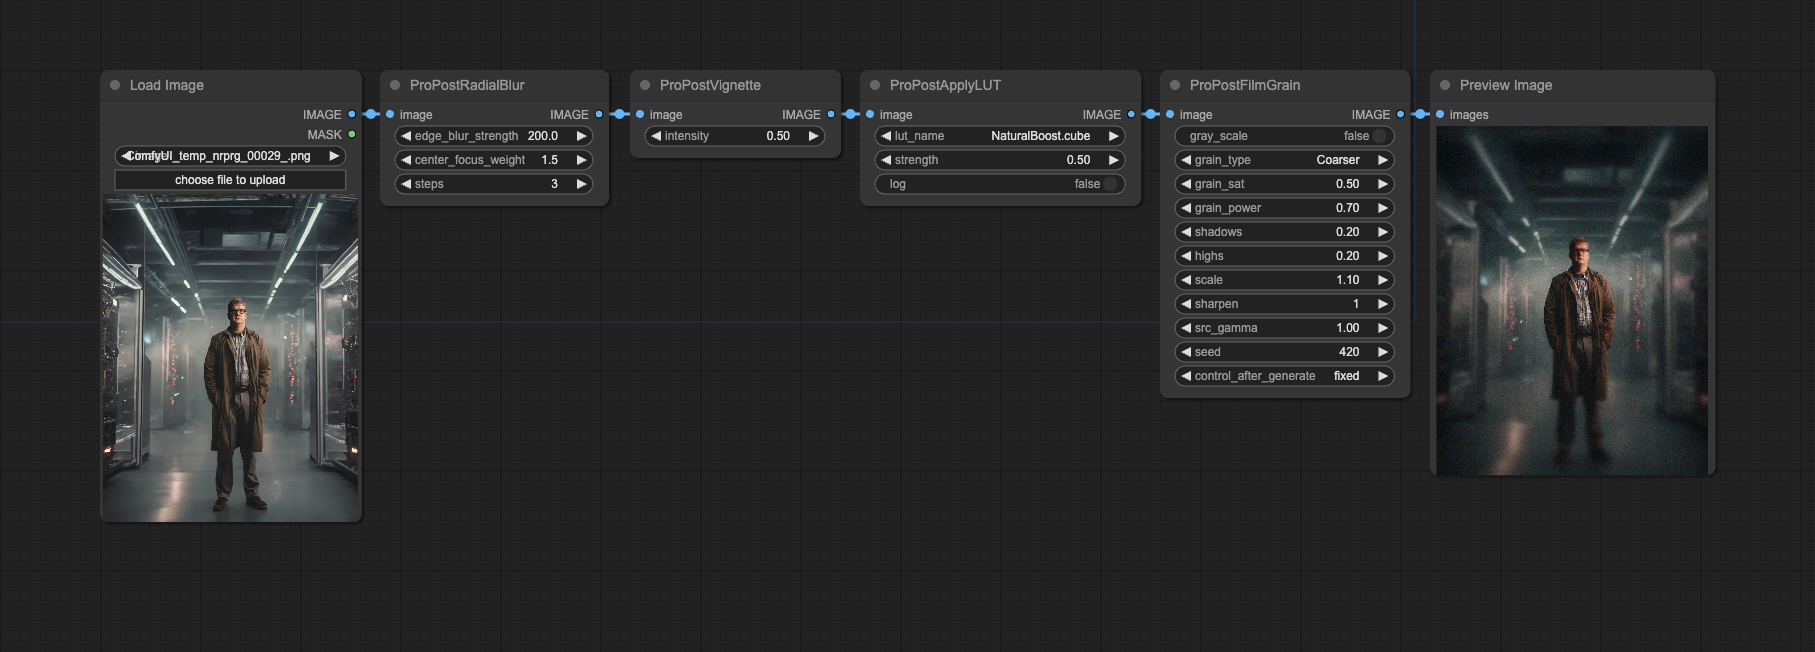
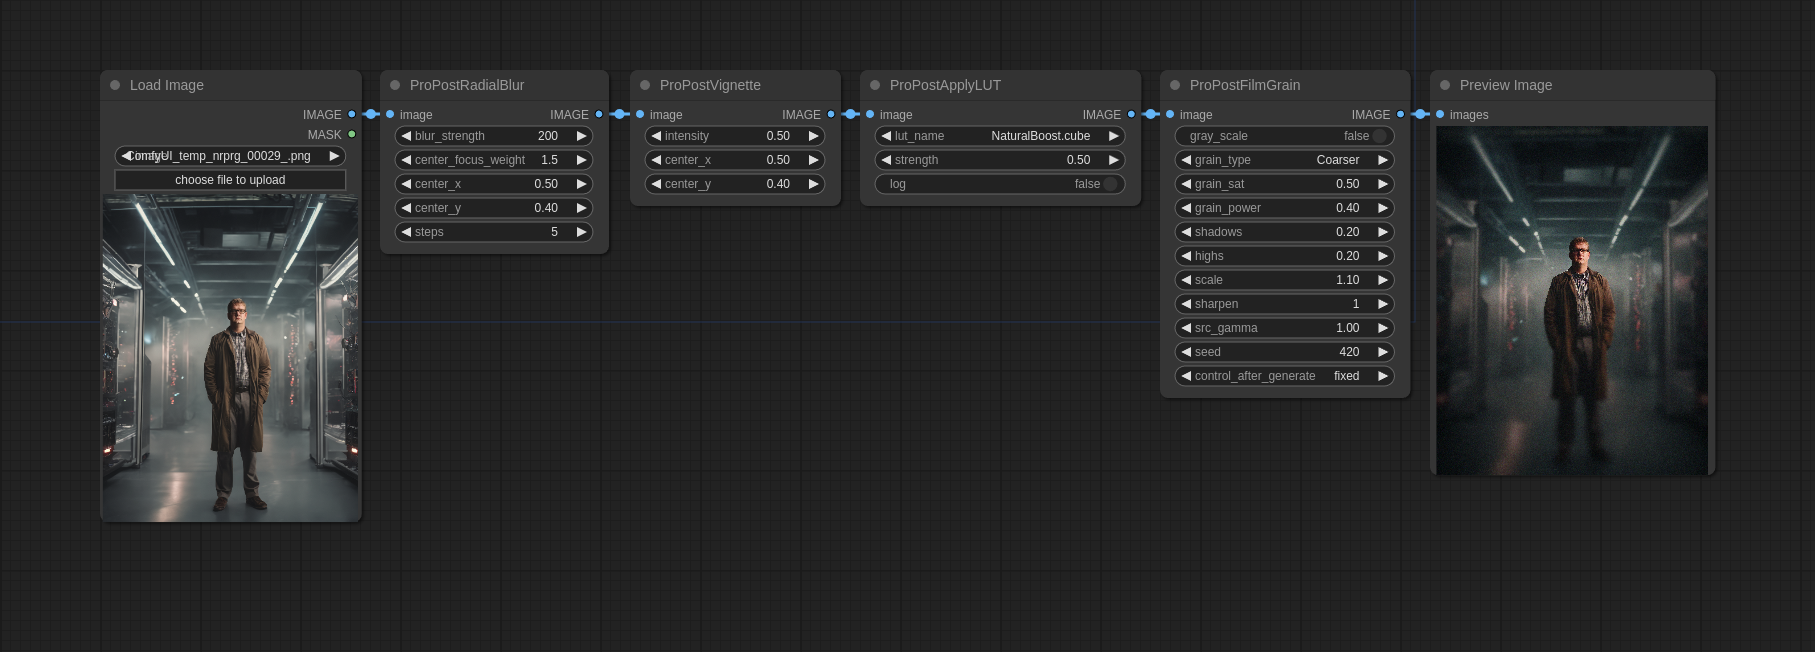
Feat/center offset (#11)
* Center Offset

* Finished

* Misc

diff --git a/nodes.py b/nodes.py
@@ -34,6 +34,18 @@ class ProPostVignette:
                     "max": 10.0,
                     "step": 0.01
                 }),
+                "center_x": ("FLOAT", {
+                    "default": 0.5,
+                    "min": 0.0,
+                    "max": 1.0,
+                    "step": 0.01
+                }),
+                "center_y": ("FLOAT", {
+                    "default": 0.5,
+                    "min": 0.0,
+                    "max": 1.0,
+                    "step": 0.01
+                }),
             },
         }
  
@@ -46,7 +58,7 @@ class ProPostVignette:
  
     CATEGORY = "Pro Post/Camera Effects"
  
-    def vignette_image(self, image: torch.Tensor, intensity: float):
+    def vignette_image(self, image: torch.Tensor, intensity: float, center_x: float, center_y: float):
         batch_size, height, width, _ = image.shape
         result = torch.zeros_like(image)
 
@@ -54,28 +66,49 @@ class ProPostVignette:
             tensor_image = image[b].numpy()
 
             # Apply vignette
-            vignette_image = self.apply_vignette(tensor_image, intensity)
+            vignette_image = self.apply_vignette(tensor_image, intensity, center_x, center_y)
 
             tensor = torch.from_numpy(vignette_image).unsqueeze(0)
             result[b] = tensor
 
         return (result,)
 
-    def apply_vignette(self, image, vignette_strength):
+    def apply_vignette(self, image, vignette_strength, center_x_ratio, center_y_ratio):
         if vignette_strength == 0:
             return image
 
         height, width, _ = image.shape
+
+        # Create linear space but centered around the provided center point ratios
         x = np.linspace(-1, 1, width)
         y = np.linspace(-1, 1, height)
-        X, Y = np.meshgrid(x, y)
-        radius = np.sqrt(X ** 2 + Y ** 2)
+        X, Y = np.meshgrid(x - (2 * center_x_ratio - 1), y - (2 * center_y_ratio - 1))
+        
+        # Calculate distances to the furthest corner
+        distances_to_corners = [
+            np.sqrt((0 - center_x_ratio) ** 2 + (0 - center_y_ratio) ** 2),
+            np.sqrt((1 - center_x_ratio) ** 2 + (0 - center_y_ratio) ** 2),
+            np.sqrt((0 - center_x_ratio) ** 2 + (1 - center_y_ratio) ** 2),
+            np.sqrt((1 - center_x_ratio) ** 2 + (1 - center_y_ratio) ** 2)
+        ]
+        max_distance_to_corner = np.max(distances_to_corners)
 
-        radius = radius / np.max(radius)
+        radius = np.sqrt(X ** 2 + Y ** 2)
+        radius = radius / (max_distance_to_corner * np.sqrt(2))  # Normalize radius
         opacity = np.clip(vignette_strength, 0, 1)
         vignette = 1 - radius * opacity
 
-        return np.clip(image * vignette[..., np.newaxis], 0, 1)
+        # If image needs to be normalized (0-1 range)
+        needs_normalization = image.max() > 1
+        if needs_normalization:
+            image = image.astype(np.float32) / 255
+        
+        final_image = np.clip(image * vignette[..., np.newaxis], 0, 1)
+        
+        if needs_normalization:
+            final_image = (final_image * 255).astype(np.uint8)
+
+        return final_image
 
 class ProPostFilmGrain:
     grain_types = ["Fine", "Fine Simple", "Coarse", "Coarser"]
@@ -197,6 +230,18 @@ class ProPostRadialBlur:
                     "max": 8.0,
                     "step": 0.1
                 }),
+                "center_x": ("FLOAT", {
+                    "default": 0.5,
+                    "min": 0.0,
+                    "max": 1.0,
+                    "step": 0.01
+                }),
+                "center_y": ("FLOAT", {
+                    "default": 0.5,
+                    "min": 0.0,
+                    "max": 1.0,
+                    "step": 0.01
+                }),
                 "steps": ("INT", {
                     "default": 5,
                     "min": 1,
@@ -214,7 +259,7 @@ class ProPostRadialBlur:
  
     CATEGORY = "Pro Post/Blur Effects"
  
-    def radialblur_image(self, image: torch.Tensor, blur_strength: float, center_focus_weight: float, steps: int):
+    def radialblur_image(self, image: torch.Tensor, blur_strength: float, center_focus_weight: float, center_x: float, center_y:float, steps: int):
         batch_size, height, width, _ = image.shape
         result = torch.zeros_like(image)
 
@@ -222,24 +267,33 @@ class ProPostRadialBlur:
             tensor_image = image[b].numpy()
 
             # Apply blur
-            blur_image = self.apply_radialblur(tensor_image, blur_strength, center_focus_weight, steps)
+            blur_image = self.apply_radialblur(tensor_image, blur_strength, center_focus_weight, center_x, center_y, steps)
 
             tensor = torch.from_numpy(blur_image).unsqueeze(0)
             result[b] = tensor
 
         return (result,)
 
-    def apply_radialblur(self, image, blur_strength, center_focus_weight, steps):
+    def apply_radialblur(self, image, blur_strength, center_focus_weight, center_x_ratio, center_y_ratio, steps):
         needs_normalization = image.max() > 1
         if needs_normalization:
             image = image.astype(np.float32) / 255
         
         height, width = image.shape[:2]
-        center_x, center_y = width // 2, height // 2
+        center_x, center_y = int(width * center_x_ratio), int(height * center_y_ratio)
+
+        # Calculate distances to all corners from the center
+        distances_to_corners = [
+            np.sqrt((center_x - 0)**2 + (center_y - 0)**2),
+            np.sqrt((center_x - width)**2 + (center_y - 0)**2),
+            np.sqrt((center_x - 0)**2 + (center_y - height)**2),
+            np.sqrt((center_x - width)**2 + (center_y - height)**2)
+        ]
+        max_distance_to_corner = max(distances_to_corners)
 
         # Create and adjust radial mask
         X, Y = np.meshgrid(np.arange(width) - center_x, np.arange(height) - center_y)
-        radial_mask = np.sqrt(X**2 + Y**2) / np.sqrt(center_x**2 + center_y**2)
+        radial_mask = np.sqrt(X**2 + Y**2) / max_distance_to_corner
         radial_mask = np.power(radial_mask, center_focus_weight)
 
         blurred_images = processing_utils.generate_blurred_images(image, blur_strength, steps)

diff --git a/README.md b/README.md
@@ -51,6 +51,8 @@ A simple vignette effect that darkens the edges of the screen. It supports very 
 | Parameter   | Default   | Type    | Description                                                        |
 |-------------|-----------|---------|--------------------------------------------------------------------|
 | intensity   | `1.0`     | Float   | The intensity of the vignette effect, with a range of 0.0 to 10.0. |
+| center_x    | `0.5`     | Float   | The x-coordinate of the center of the vignette. 0.0 to 1.0.        |
+| center_y    | `0.5`     | Float   | The y-coordinate of the center of the vignette. 0.0 to 1.0.        |
 
 
 ### Radial Blur
@@ -64,6 +66,8 @@ This filter allows you to blur the edges of the image. It has a few different op
 |----------------------|-----------|---------|-------------------------------------------------------------------------------|
 | blur_strength        | `64.0`    | Float   | The intensity of the blur at the edges, with a range of 0.0 to 256.0.         |
 | center_focus_weight  | `1.0`     | Float   | How focused the blur is. A smaller value pinches the blur towards the center. |
+| center_x             | `0.5`     | Float   | The x-coordinate of the center of the blur. 0.0 to 1.0.                      |
+| center_y             | `0.5`     | Float   | The y-coordinate of the center of the blur. 0.0 to 1.0.                      |
 | steps                | `5`       | Integer | The number of steps to use when blurring the image. Higher numbers are slower.|
 
 > Note: Using steps set to `1` can create some dreamy effects as seen below with a high edge_blur_strength.
@@ -109,7 +113,7 @@ Here we apply a lut called `Waves.cube` to the image in LOG color space.
 
 Obviously due to the nature of ComfyUI you can compose these effects together. Below is an example of a all the effects combined to create a more controlled and striking image.
 
-![Pro Post Film Grain Example](./examples/propost-compound.png)
+![Pro Post Film Grain Example](./examples/propost-compound.jpg)
 
 
 ## Example
